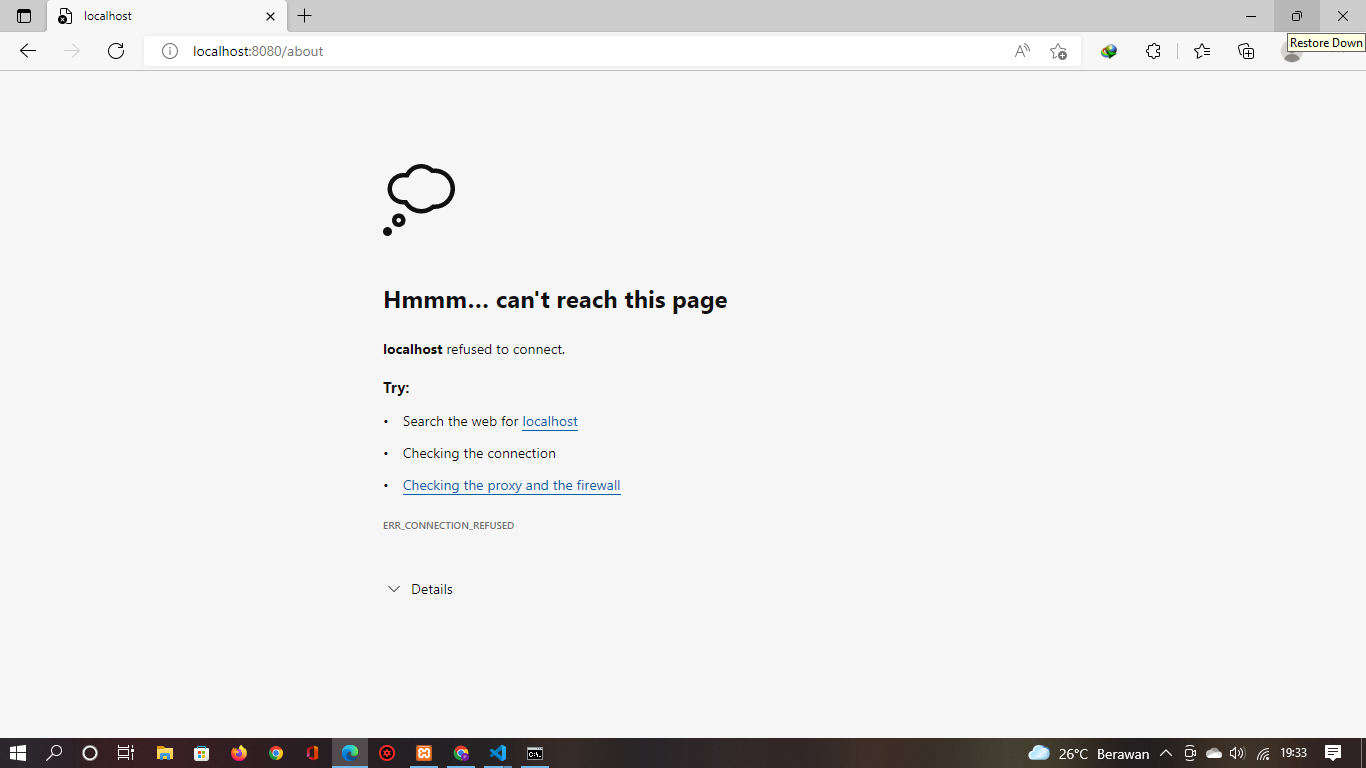
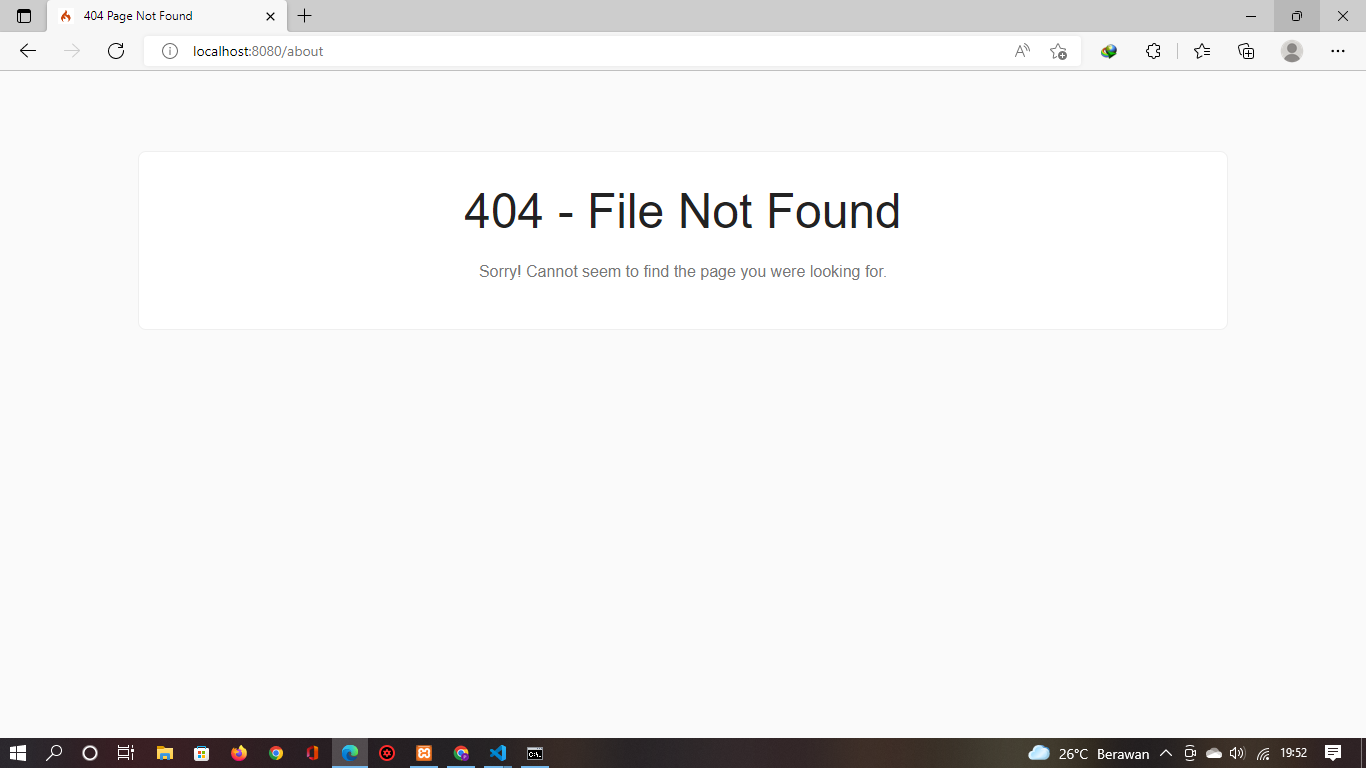
menambahkan teks

diff --git a/README.md b/README.md
@@ -125,3 +125,48 @@ php spark routes
 <br>Ketika diakses akan mucul tampilan error 404 file not found, itu artinya file/page tersebut tidak ada. Untuk dapat mengakses halaman tersebut, harus dibuat terlebih dahulu Contoller yang sesuai dengan routing yang dibuat yaitu Contoller Page.
 
 ## Membuat Controller
+
+<br>Selanjutnya adalah membuat Controller Page. Buat file baru dengan nama page.php
+pada direktori Controller kemudian isi kodenya seperti berikut.
+
+```
+<?php
+namespace App\Controllers;
+class Page extends BaseController
+{
+ public function about()
+ {
+ echo "Ini halaman About";
+ }
+ public function contact()
+ {
+ echo "Ini halaman Contact";
+ }
+ public function faqs()
+ {
+ echo "Ini halaman FAQ";
+ }
+}
+```
+
+<br>Selanjutnya refresh Kembali browser,
+![p](img/SS13.png)
+
+## Auto Routing
+
+<br>Secara default fitur autoroute pada Codeiginiter sudah aktif. Untuk mengubah status autoroute dapat mengubah nilai variabelnya. Untuk menonaktifkan ubah nilai true menjadi false.
+
+```
+$routes->setAutoRoute(true);
+```
+
+<br>Tambahkan method baru pada Controller Page Seperti berikut.
+
+```
+public function tos()
+{
+ echo "ini halaman Term of Services";
+}
+```
+<br>Method ini belum ada pada routing, sehingga cara mengaksesnya dengan menggunakan alamat: http://localhost:8080/page/tos
+![p](img/SS14.png)
